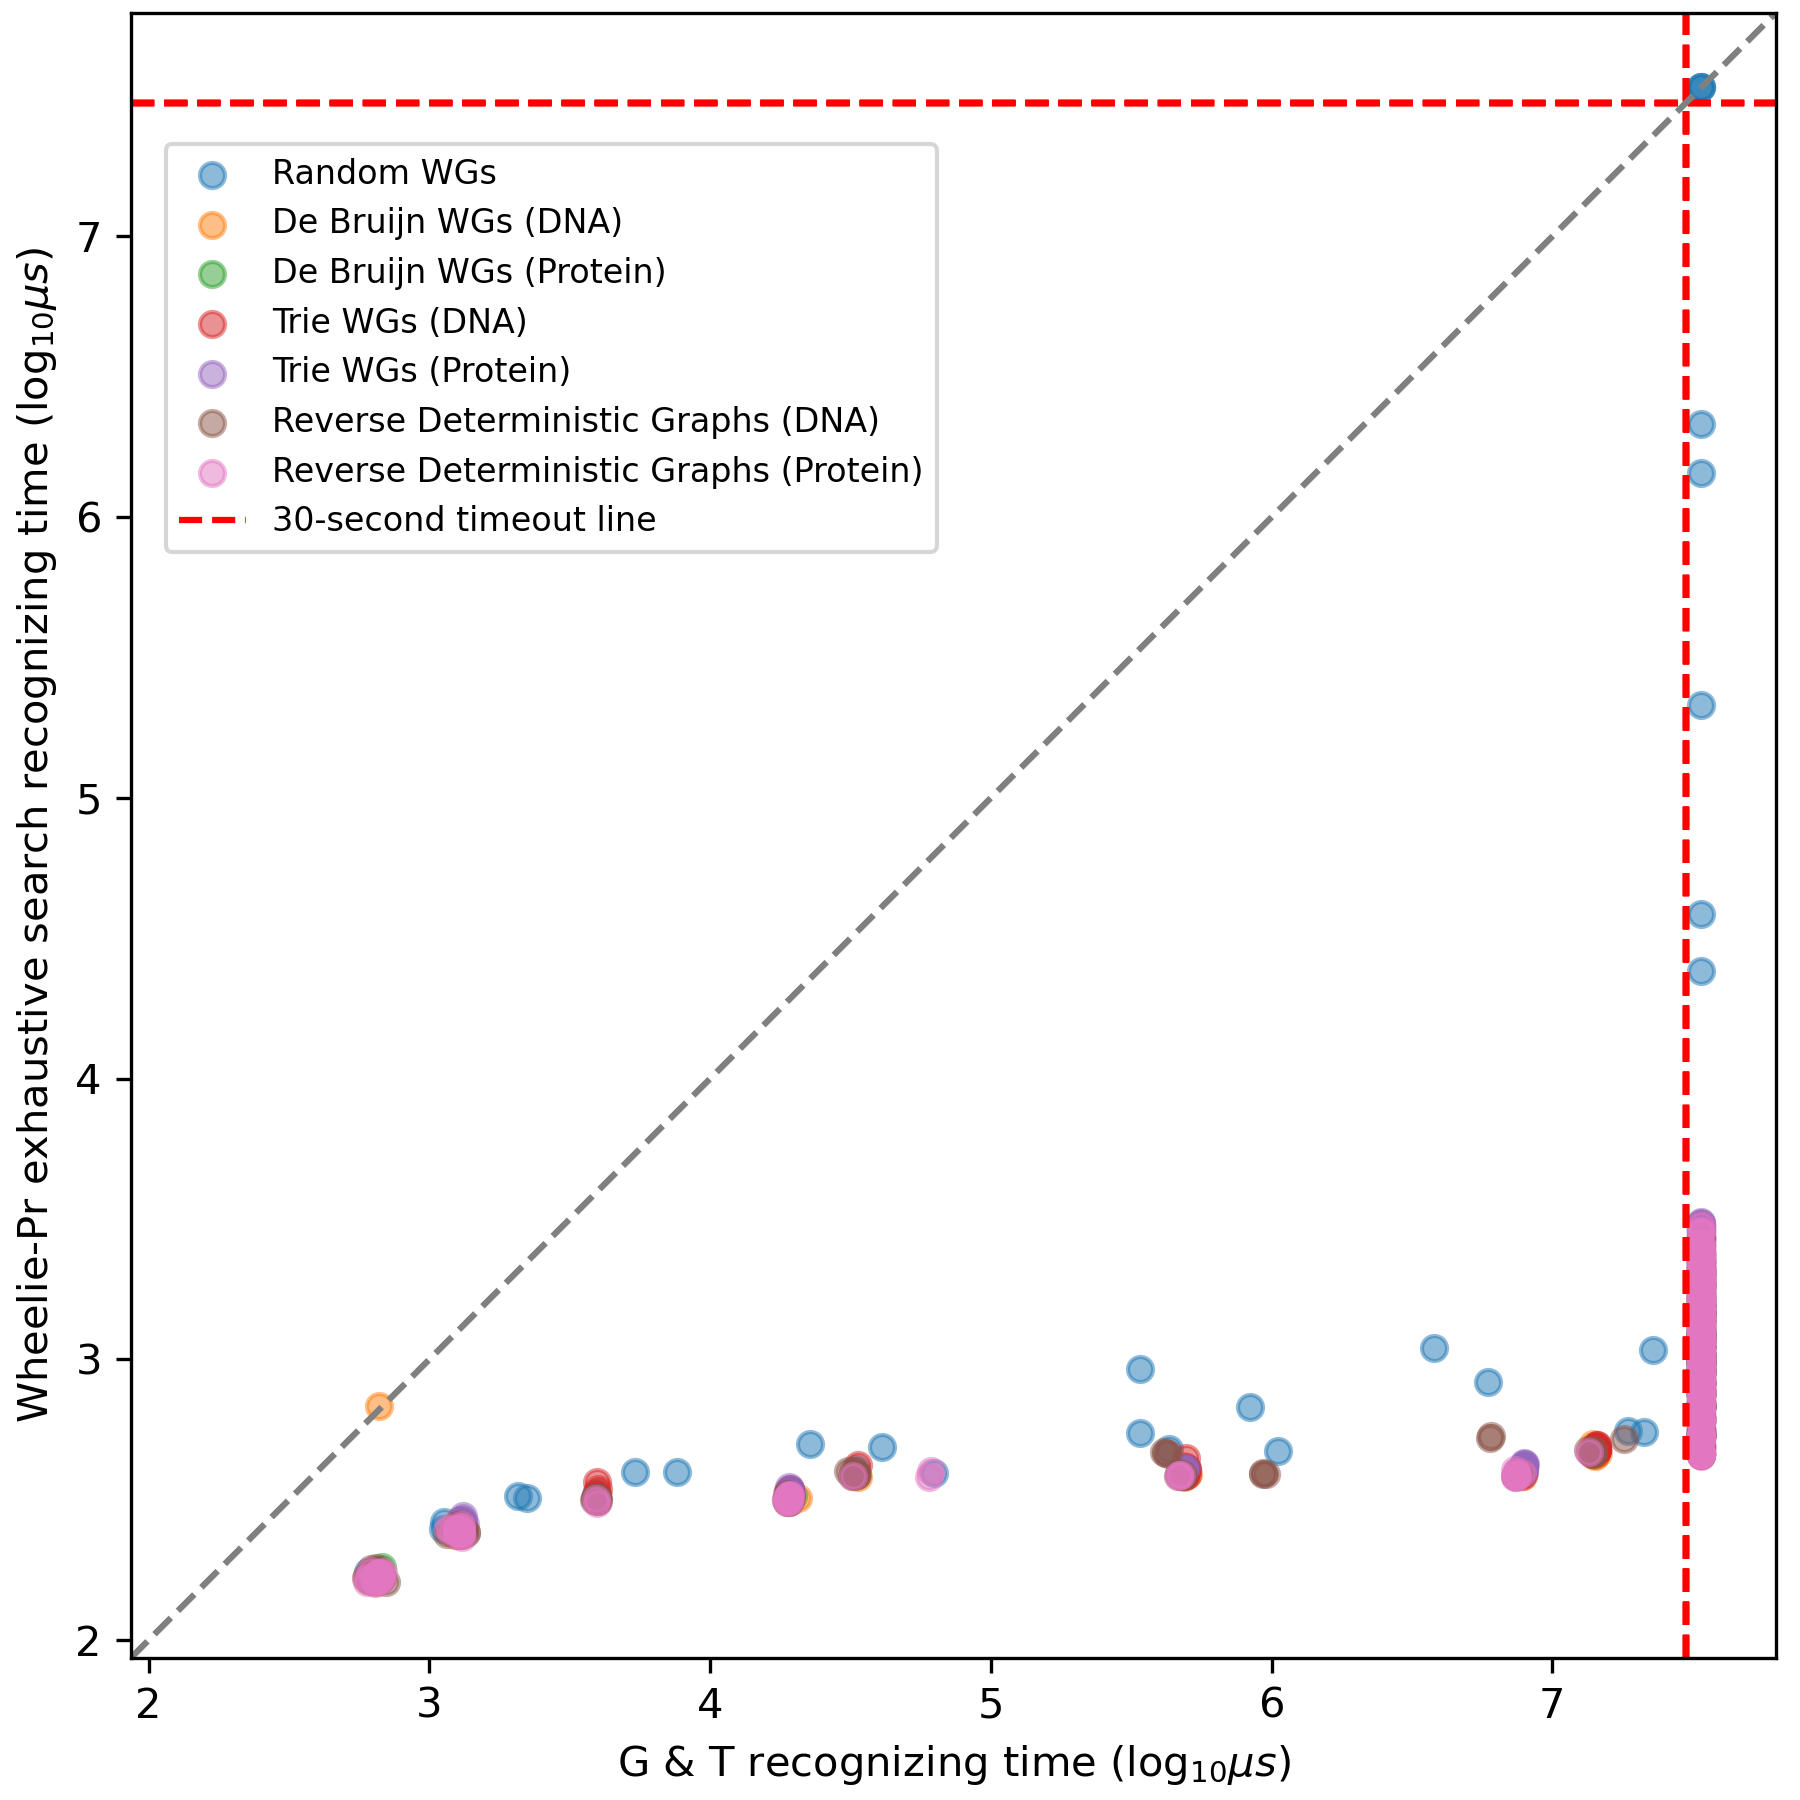
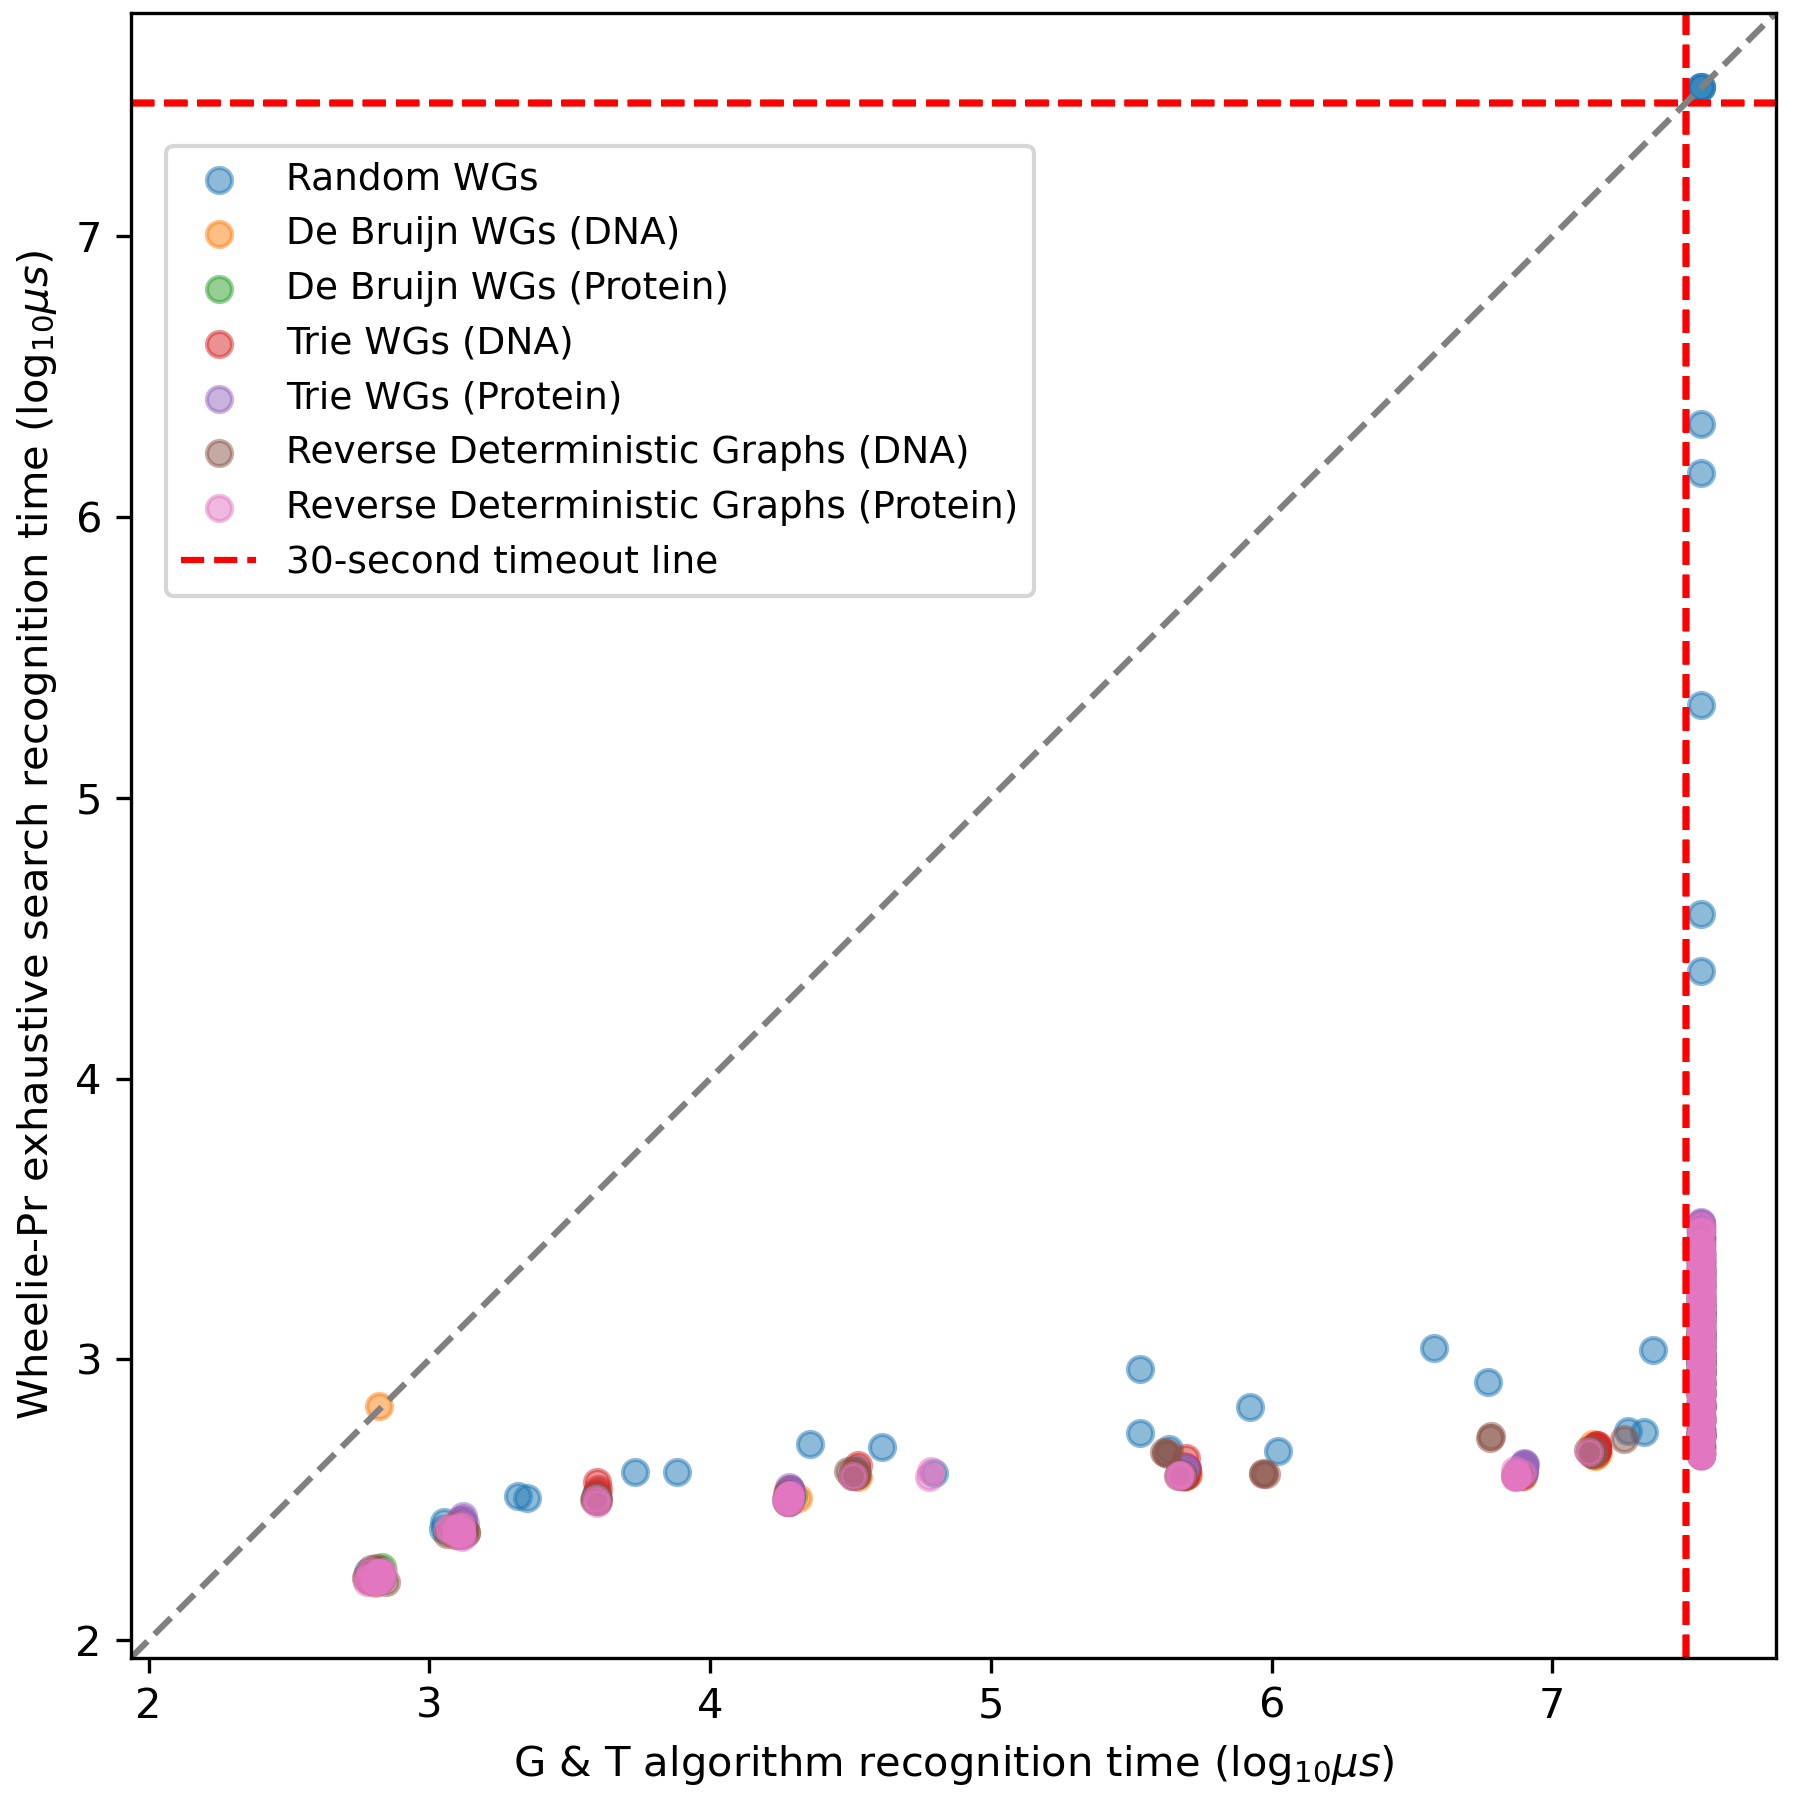
Update figures

Changed region(s): [[0.0933, 0.0622, 0.5289, 0.3422], [0.0, 0.1244, 0.0311, 0.8089], [0.28, 0.9644, 0.7778, 0.9956]]

diff --git a/results/Figure_5/plot_exp_all.py b/results/Figure_5/plot_exp_all.py
@@ -29,9 +29,9 @@ for file in sys.argv[1:]:
         all_vars.append((times, ns, es, ls, densities))
 
 bar_font = 7
-axis_fontsize = 13
+axis_fontsize = 14
 top_padding = 20
-font = {'size'   : 8}
+font = {'size'   : 14}
 matplotlib.rc('font', **font)
 # fig, axs = plt.subplots(figsize=(8, 6), dpi=300)
 
@@ -49,7 +49,7 @@ for label, ax in axs.items():
 
 # fig, axs = plt.subplots(nrows=2, ncols=3, figsize=(22, 6), dpi=300, gridspec_kw={'height_ratios': [4.5, 1]}, sharey='row')
 
-axs['A'].set_ylabel(r'Recognizing time ($\mu s$)', labelpad=26, fontsize=axis_fontsize)
+axs['A'].set_ylabel(r'recognition time ($\mu s$)', labelpad=26, fontsize=axis_fontsize)
 axs['A_2'].set_ylabel(r'Timeout count', labelpad=28, fontsize=axis_fontsize)
 counter = 0
 
@@ -69,7 +69,7 @@ for times, ns, es, ls, densities in all_vars:
         w = 130
         bars = axs['A_2'].bar(df['ns_uniq']+w*(counter-idx*2)-w/2, df['timeout'], label=next(labels), width = w)
         axs['A_2'].bar_label(bars, fontsize=bar_font)
-        axs['A_2'].margins(y=0.2)
+        axs['A_2'].margins(y=0.25)
         axs['A_2'].set_xlabel(r'Number of nodes', labelpad=18, fontsize=axis_fontsize)
         axs['A'].set_title(r'Fix $e = 8000$, $\sigma = 4$', pad = top_padding, fontsize=axis_fontsize)
     elif idx == 1:
@@ -82,9 +82,9 @@ for times, ns, es, ls, densities in all_vars:
         df['densities_uniq'] = np.unique(densities)
         print(df)
         w = 60
-        bars = axs['B_2'].bar(df['densities_uniq']+w*counter-w/2, df['timeout'], label=next(labels), width = w)
+        bars = axs['B_2'].bar(df['densities_uniq']+w*(counter-idx*2)-w/2, df['timeout'], label=next(labels), width = w)
         axs['B_2'].bar_label(bars, fontsize=bar_font)
-        axs['B_2'].margins(y=0.2)
+        axs['B_2'].margins(y=0.25)
         axs['B_2'].set_xlabel(r'Label Density ($e / \sigma$)', labelpad=18, fontsize=axis_fontsize)
         axs['B'].set_title(r'Fix $n = 4000$, $e = 20000$', pad = top_padding, fontsize=axis_fontsize)
     elif idx == 2:
@@ -105,7 +105,7 @@ for times, ns, es, ls, densities in all_vars:
         bars = axs['C_2'].bar(df['es_ratio_uniq']+w*(counter-idx*2)-w/2, df['timeout'], label=next(labels), width = w)
 
         axs['C_2'].bar_label(bars, fontsize=bar_font)
-        axs['C_2'].margins(y=0.2)
+        axs['C_2'].margins(y=0.25)
         axs['C_2'].set_xlabel(r'$\sigma / \sigma_{min} ratio$', labelpad=18, fontsize=axis_fontsize)
         axs['C'].set_title(r'Fix $n = 2000$, $e / \sigma = 2000$', pad = top_padding, fontsize=axis_fontsize)
 
@@ -116,7 +116,7 @@ for times, ns, es, ls, densities in all_vars:
 handles, labels = axs['A'].get_legend_handles_labels()
 print("handles: ", handles)
 handles.append(timeout_line_handle)
-fig.legend(handles, ["Wheelie-SMT", "Wheelie-Pr", "Timeout line"], loc='upper right', bbox_to_anchor=(1,0.99))
+fig.legend(handles, ["Wheelie-SMT", "Wheelie-Pr", "Timeout line"], loc='center right', bbox_to_anchor=(0.995,0.7), ncol=1)
 # fig.text(0.5, 0.04, 'common xlabel', ha='center', va='center')
 plt.savefig(os.path.join("Figure_5.png"), format="PNG")
 

diff --git a/results/Figure_6/plot_cactus.py b/results/Figure_6/plot_cactus.py
@@ -40,7 +40,9 @@ for file in sys.argv[1:]:
 # print(test_case)
 # fig, ax = plt.subplots(nrows=1, ncols=2, figsize=(23, 6), dpi=300)
 
-fig, axs = plt.subplot_mosaic([['A', 'B']], constrained_layout=True, figsize=(18, 6), dpi=300)
+fig, axs = plt.subplot_mosaic([['A', 'B']], constrained_layout=True, figsize=(20, 6), dpi=300)
+
+fig.subplots_adjust(left=0.05, right=0.88) # or whatever
 
 for label, ax in axs.items():
     # label physical distance to the left and up:
@@ -50,8 +52,8 @@ for label, ax in axs.items():
             fontsize=30, va='bottom', fontfamily='serif', fontweight='bold')
 
 # axs['A'].set_xlabel('Label group density')
-axs['A'].set_ylabel(r'Accumulated recognizing time ($\mu s$)', labelpad=12, fontsize=15)
-# axs['B'].set_ylabel(r'Accumulated recognizing time ($\mu s$)', labelpad=12, fontsize=15)
+axs['A'].set_ylabel(r'Accumulated recognition time ($\mu s$)', labelpad=12, fontsize=15)
+axs['B'].set_ylabel(r'Accumulated recognition time ($\mu s$)', labelpad=12, fontsize=15)
 # ax[1].set_xlabel('Label group density')
 # ax[1].set_ylabel(r'Timeout case count', labelpad=18, fontsize=axis_fontsize)
 counter = 0
@@ -96,7 +98,8 @@ for agg_times, times, label in all_times:
 handles, labels = axs['A'].get_legend_handles_labels()
 print("handles: ", handles)
 # handles.append(timeout_line_handle)
-fig.legend(handles, ["Wheelie-SMT", "Pure SMT"], loc='upper right', bbox_to_anchor=(0.99,1), prop={'size': 12})
+fig.legend(handles, ["Wheelie-SMT", "Pure SMT"], loc='center right', prop={'size': 15}, ncol=1)
+# , bbox_to_anchor=(0.99,1)
 plt.savefig(os.path.join("Figure_6.png"), format="PNG")
 
 #python plot_cactus.py ../../unit_test/SMT_vs_RHSMT/Timeout_test/DeBruijnG_AA/results/30_DB_AA_restrict_out.txt ../../unit_test/SMT_vs_RHSMT/Timeout_test/DeBruijnG_AA/results/30_DB_AA_full_out.txt ../../unit_test/SMT_vs_RHSMT/Timeout_test/RevDetG_AA/results/30_RD_AA_restrict_out.txt  ../../unit_test/SMT_vs_RHSMT/Timeout_test/RevDetG_AA/results/30_RD_AA_full_out.txt

diff --git a/results/Figure_4/plot_dNFA.py b/results/Figure_4/plot_dNFA.py
@@ -40,7 +40,7 @@ for file in sys.argv[1:]:
 
 
 
-font = {'size'   : 8}
+font = {'size'   : 13}
 matplotlib.rc('font', **font)
 
 fig, axs = plt.subplot_mosaic([['A'],['A_2']], constrained_layout=True, figsize=(12, 6), dpi=300, gridspec_kw={'height_ratios': [4.5, 1]})
@@ -56,8 +56,8 @@ ax_counter = 0
 #                 fontsize=30, va='bottom', fontfamily='serif', fontweight='bold')
 #     ax_counter += 1
 
-axis_fontsize=11
-axs['A'].set_ylabel(r'Recognizing time ($\mu s$)', labelpad=26, fontsize=axis_fontsize)
+axis_fontsize=12
+axs['A'].set_ylabel(r'recognition time ($\mu s$)', labelpad=26, fontsize=axis_fontsize)
 axs['A_2'].set_ylabel(r'Timeout count', labelpad=28, fontsize=axis_fontsize)
 counter = 0
 timeout_line_handle = None
@@ -98,13 +98,14 @@ for idx, (ans, times, ns, es, ls, densities, ds) in enumerate(all_vars):
     # , color=colors[idx])
 
     axs['A_2'].bar_label(bars, fontsize=9)
-    axs['A_2'].margins(y=0.2)
+    axs['A_2'].margins(y=0.3)
     axs['A_2'].set_xlabel(r'$d$', labelpad=15, fontsize=axis_fontsize)
-    axs['A'].set_title(r'Fix $n = 1000$, $e = 3000, \sigma = 4$', pad = 25, fontsize=axis_fontsize, loc='left')
+    # axs['A'].set_title(r'', pad = 50, fontsize=axis_fontsize, loc='left')
+    axs['A'].set_title(r'Fix $n = 1000$, $e = 3000, \sigma = 4$', pad = 50, fontsize=axis_fontsize, loc='left')
 handles, labels = axs['A'].get_legend_handles_labels()
 print("handles: ", handles)
 handles.append(timeout_line_handle)
-fig.legend(handles, ['Wheelie-SMT', 'Wheelie-SMT median line', 'Wheelie-Pr', 'Wheelie-Pr median line', '1000-second timeout line'], loc='upper right', bbox_to_anchor=(1, 1.0057), ncol=3)
+fig.legend(handles, ['Wheelie-SMT', 'Wheelie-SMT median', 'Wheelie-Pr', 'Wheelie-Pr median', '1000-second timeout line'], loc='upper right', bbox_to_anchor=(1, 1.0097), ncol=3)
 
 # plt.show()
 plt.savefig(os.path.join("Figure_4.png"), format="PNG")

diff --git a/results/Figure_1/plot_solvers.py b/results/Figure_1/plot_solvers.py
@@ -65,8 +65,8 @@ def main():
 
 
 
-        ax.set_xlabel(r'G & T recognizing time ($\log_{10} \mu s$)')
-        ax.set_ylabel(r'Wheelie-Pr exhaustive search recognizing time ($\log_{10} \mu s$)')
+        ax.set_xlabel(r'G & T algorithm recognition time ($\log_{10} \mu s$)')
+        ax.set_ylabel(r'Wheelie-Pr exhaustive search recognition time ($\log_{10} \mu s$)')
         ax.scatter(log_xs, log_ys, alpha=0.5, label=labels[idx])
         # ax.scatter(xs_filter, ys_filter, alpha=0.5, label=labels[idx])
         idx += 1
@@ -84,7 +84,7 @@ def main():
     print("handles: ", handles)
     handles.append(timeout_line_handle)
     labels.append("30-second timeout line")
-    ax.legend(handles, labels, loc='upper right', bbox_to_anchor=[0.5, 0.93],prop={'size': 8})
+    ax.legend(handles, labels, loc='upper right', bbox_to_anchor=[0.56, 0.93],prop={'size': 9})
 
     # plt.legend()
     # plt.show()
